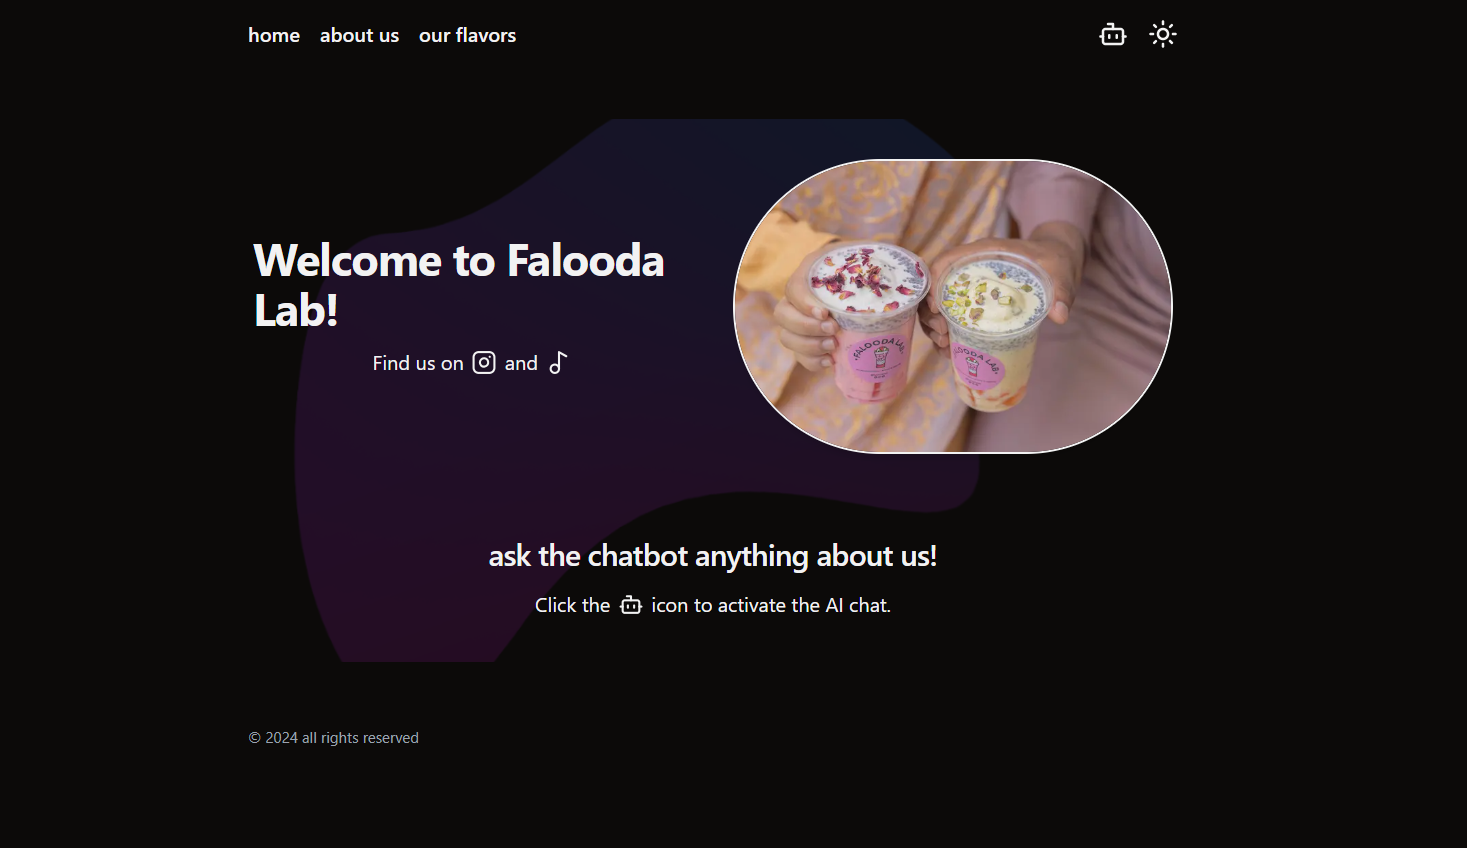
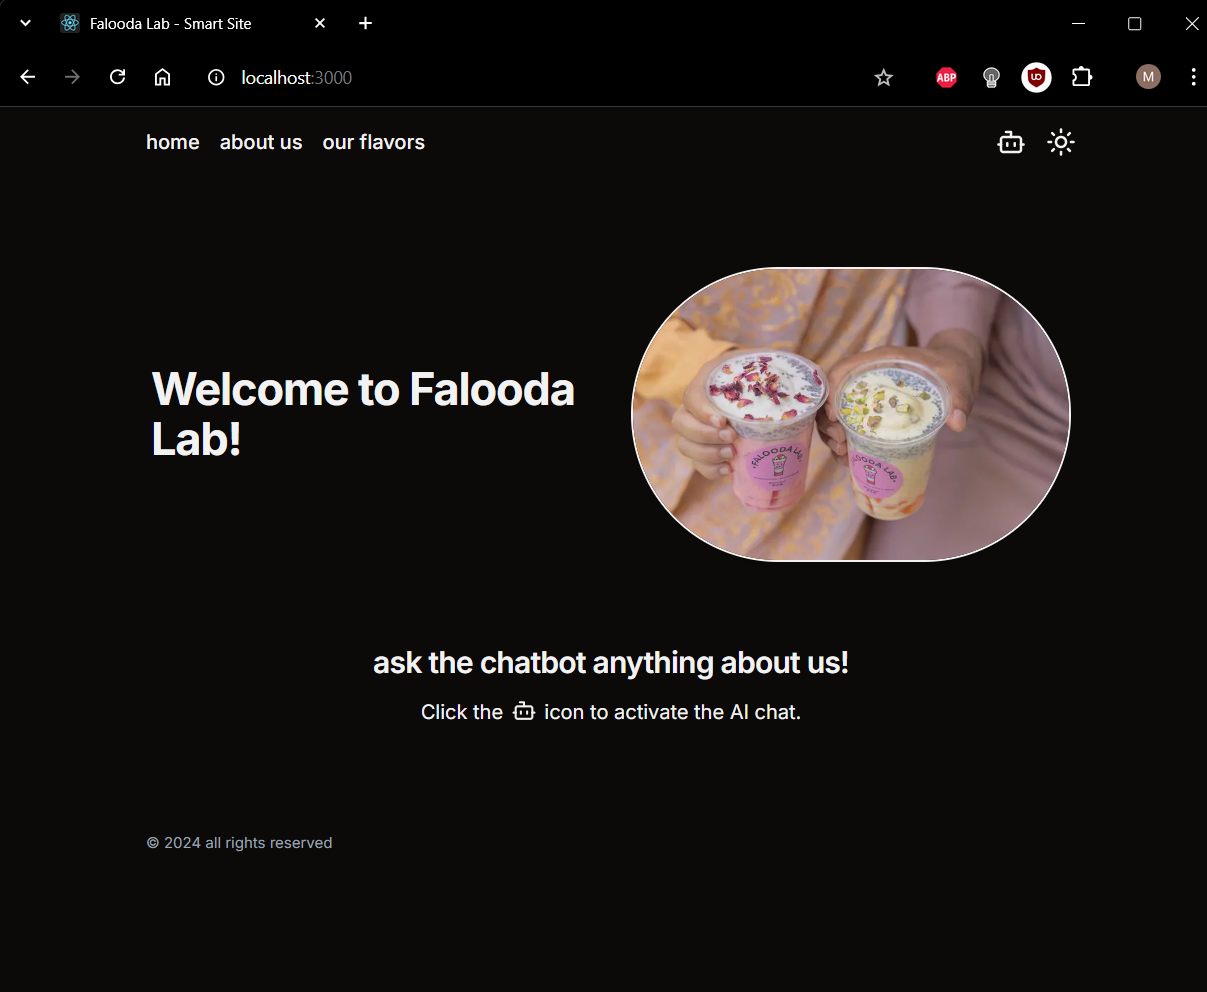
updated images, added nontech project section

diff --git a/src/components/sections/NonTech.jsx b/src/components/sections/NonTech.jsx
@@ -1,0 +1,92 @@
+import React from 'react'; 
+import Cursor from '../Cursor';
+
+// Import screenshots
+import privilege1 from '../../assets/projects/privilege1.png';
+import privilege2 from '../../assets/projects/privilege2.png';
+import pkpr from '../../assets/projects/pkpr.png';
+
+// Project info
+const projects = [
+  {
+    id: "privilege",
+    images: [privilege1, privilege2], // Add more images as needed
+    // liveLink:
+    etherscan: "https://etherscan.io/nft/0x41ea8e729a304691798dcbb18d989f5a6e16762d/1",
+    name: "Privilege",
+    description: "Ideated and implemented the first of its kind donation-based minting system to purchase an open edition NFT in order to address double standards in media and Web3 while providing equitable monetary support for crises in the Ukraine and the Global South. Accessibility and engagement was increased leading to increased funding, breaking personal records for solo humanitarian aid initiatives.",
+  },
+  {
+    id: "pkpr",
+    images: [pkpr], // Add more images if available
+    liveLink: "https://www.pkprcollective.xyz/",
+    etherscan: "https://etherscan.io/token/0xD0fD4E578bB61c9dcbbc567D046DD0AAc4867557",
+    name: "Pakistan & Puerto Rico Charity Collective",
+    description: "Spearheaded a collective of nine artists to raise awareness and funds for relief efforts addressing the devastating flooding in Pakistan and ongoing hurricane recovery in Puerto Rico. As project manager for this initiative, I led the ideation and implementation phases, facilitating collaboration among artists to produce impactful digital artworks. I also contributed my own digital art, creating pieces that highlight the urgency of the humanitarian crisis.",
+  },
+  // {
+  //   id: "newproject",
+  //   images: ["https://geekflare.com/wp-content/uploads/2021/12/ai-project-ideas-geekflare.jpg"],
+  //   liveLink: "https://example.com/live",
+  //   githubLink: "https://github.com/example",
+  //   name: "3rd Project",
+  //   description: "Description.",
+  // },
+];
+
+// Project display containers
+const NonTech = ({ project }) => {
+  return (
+    <section id="nontech" className="section-container section-padding">
+      <h2 className="section-heading">
+        dir /humanitarian-projects<Cursor/>
+      </h2>
+      
+      {/* Set up responsive project cards */}
+      <div className="grid grid-cols-1 sm:grid-cols-2 md:grid-cols-3 gap-8">
+        
+        {/* Loop through each project to display relevant info */}
+        {projects.map(project => (
+          <div key={project.id} className="bordered-container overflow-hidden transition-transform transform hover:scale-105 flex flex-col">
+            
+            {/* Display project images if available */}
+            <div className="flex overflow-x-auto space-x-4 pb-2">
+              {project.images && project.images.map((image, index) => (
+                <img
+                  key={index}
+                  src={image}
+                  alt={`${project.name} screenshot ${index + 1}`}
+                  className="w-full h-49 object-cover rounded-t-lg opacity-90"
+                />
+              ))}
+            </div>
+           
+            {/* Project info containers set up to dynamically pull info */}
+            <div className="p-6 flex flex-col flex-grow">
+              <h3 className="text-xl text-gray-300 font-bold">{project.name}</h3>
+              <p className="terminal-text mt-2 flex-grow">{project.description}</p>
+              
+              <div className="mt-4 flex space-x-4">
+                {/* Live demo link */}
+                {project.liveLink && (
+                  <a href={project.liveLink} target="_blank" rel="noopener noreferrer" className="link-style">
+                    Live
+                  </a>
+                )}
+                
+                {/* Etherscan link */}
+                {project.etherscan && (
+                  <a href={project.etherscan} target="_blank" rel="noopener noreferrer" className="link-style">
+                    Etherscan
+                  </a>
+                )}
+              </div>
+            </div>
+          </div>
+        ))}
+      </div>
+    </section>
+  );
+};
+
+export default NonTech;

diff --git a/src/components/sections/Experience.jsx b/src/components/sections/Experience.jsx
@@ -6,7 +6,7 @@ import Cursor from '../Cursor';
 const experiences = [
   {
     id: 'developer',
-    role: 'Fullstack Developer',
+    role: 'Aspiring Fullstack Developer',
     description: 'building innovative solutions from front to back with a passion for harnessing the power of AI',
   },
   {
@@ -16,13 +16,13 @@ const experiences = [
   },
   {
     id: 'photographer',
-    role: 'Photographer',
-    description: 'captured moments and stories through the lens with creativity and precision',
+    role: 'Photographer & Digital Asset Creator',
+    description: 'captured bold visuals for clients and crafted unique digital assets in the NFT/Web3 space, blending classic techniques and cutting-edge generative AI multimedia tools to push creative limits',
   },
   {
     id: 'instructionalDesign',
     role: 'Instructional Design Specialist',
-    description: 'transformed complex concepts into engaging and effective learning experiences',
+    description: 'transformed complex concepts into engaging and effective digital and physical learning experiences',
   },
   {
     id: 'mathTeacher',

diff --git a/src/components/sections/Skills.jsx b/src/components/sections/Skills.jsx
@@ -68,7 +68,7 @@ function Skills() {
           <li><span className="text-customPurple">Frontend:</span> Vite, React, Next.js, Tailwind CSS, Figma, React Router</li>
           <li><span className="text-customPurple">Backend:</span> Node.js, Express</li>
           <li><span className="text-customPurple">Database Management:</span> MongoDB, DataStax Astra</li>
-          <li><span className="text-customPurple">ML/AI:</span> OpenAI API, Langchain</li>
+          <li><span className="text-customPurple">ML/AI:</span> OpenAI API, Langchain, MidJourney, DALL-E, RunwayML</li>
           <li><span className="text-customPurple">Tools & Deployment:</span> GitHub, Insomnia, Vercel, Netlify</li>
           <li><span className="text-customPurple">Image Editing & Design:</span> After Effects, Canva, Adobe Suite, Lightroom, Photoshop</li>
         </ul>

diff --git a/src/App.jsx b/src/App.jsx
@@ -4,6 +4,7 @@ import Navbar from './components/NavBar';
 import Sidebar from './components/SideBar';
 import About from './components/sections/About';
 import ProjectList from './components/sections/Project';
+import NonTech from './components/sections/NonTech';
 import Contact from './components/sections/Contact';
 import Experience from './components/sections/Experience';
 import Skills from './components/sections/Skills';
@@ -26,7 +27,9 @@ function App() {
           <About />
           <Skills/>
           <ProjectList/>
+          <NonTech/>
           <Experience/>
+          
           <Contact/>
           
           <p className='text-gray-400 text-sm text-right bg-gray-800 '>

diff --git a/src/components/sections/About.jsx b/src/components/sections/About.jsx
@@ -19,7 +19,7 @@ const About = () => {
         </p>
         
         <p className="mt-2">
-          Hi, I'm Naz! I'm a former high school math teacher turned fullstack developer interested in working wth AI-driven applications. 
+          Hi, I’m Naz! A former math teacher turned full-stack developer, passionate about building AI-integrated, human centered solutions. With expertise in data driven learning, cutting edge multimedia innovation, and leadership in humanitarian NFT initiatives, I’m excited to bring my problem-solving and project management skills to the tech world.
         </p>
         
         <p className="mt-8">
